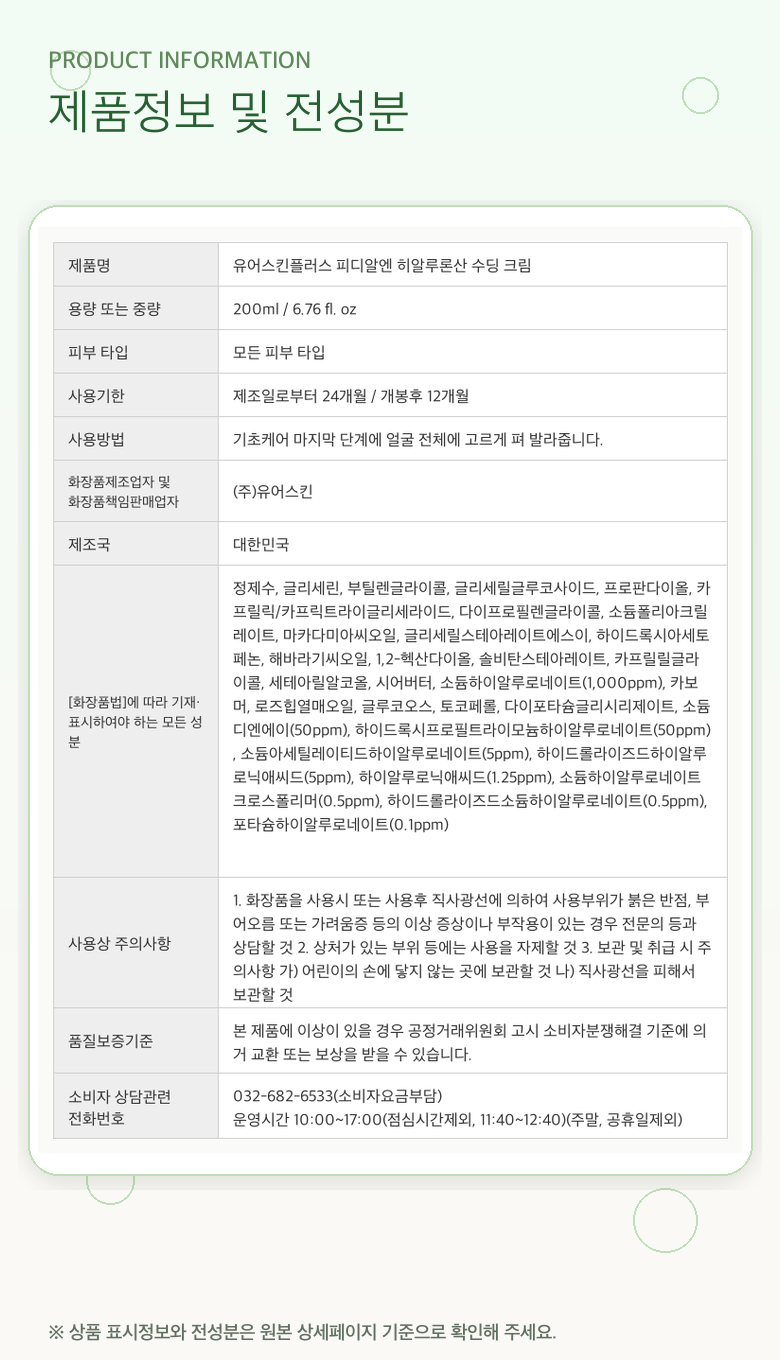
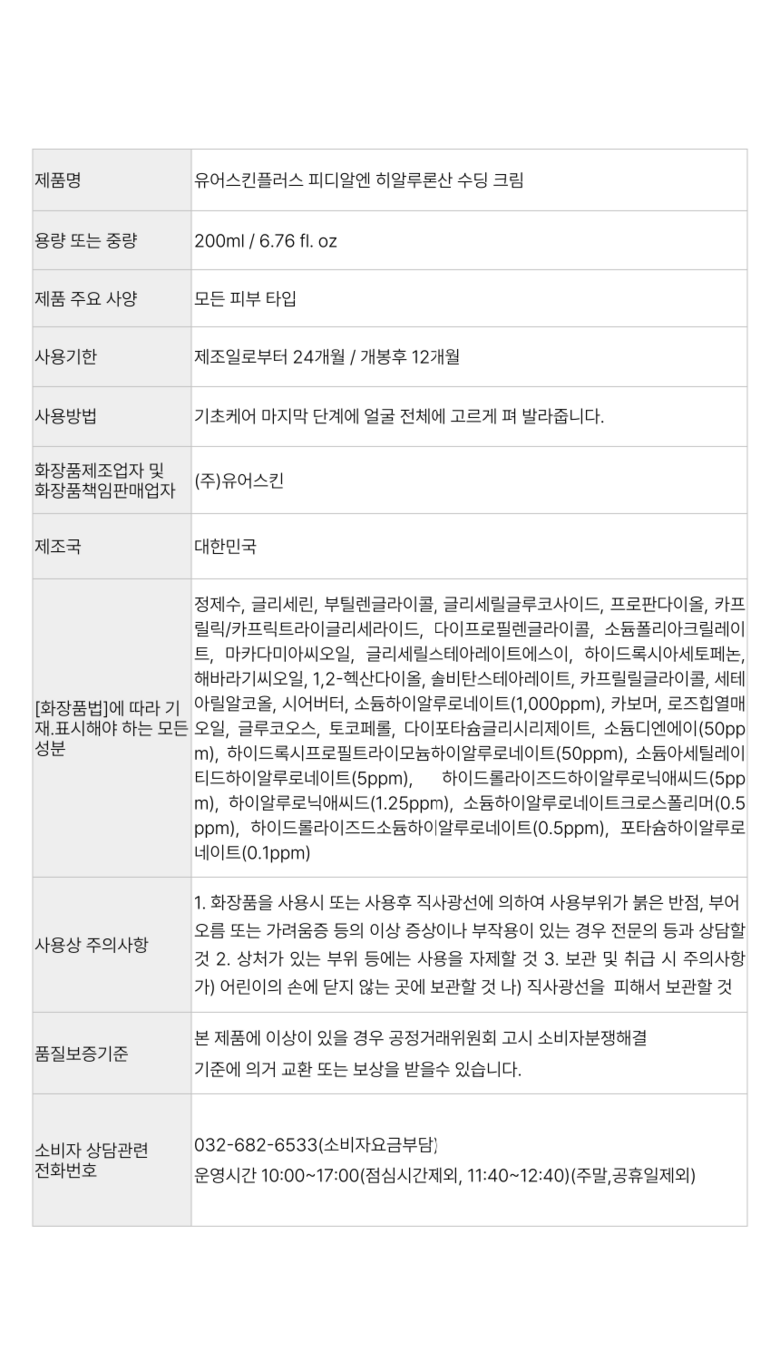
fix: restore soothing cream original table cut

Changed region(s): [[0.0308, 0.0309, 0.9846, 0.8956], [0.0615, 0.9574, 0.7077, 0.9882]]

diff --git a/src/data/marketingOps.ts b/src/data/marketingOps.ts
@@ -536,7 +536,7 @@ export const productVersions: Record<string, ProductVersion[]> = {
       label: 'V1 후보',
       status: 'candidate',
       date: '2026-06-17',
-      summary: 'PDRN 히알루론산 수딩 크림 V1 후보입니다. ChatGPT Images를 통해 대표 01~06과 상세 흐름을 순차 생성/내부 QA 후 반영했고, 상세 01과 02 사이에 성인 여성 사용감 브릿지 컷 01a를 추가했습니다. 최종 검토 후 01a/02~05 해상도를 780×1360으로 정규화했고, 저자극 컷의 강한 표현을 완화했으며, 제품정보·전성분 표는 내용 유지 상태로 V1 톤을 보강해 맨뒤 표시 순서로 배치했습니다. 쿠팡에는 아직 미반영입니다.',
+      summary: 'PDRN 히알루론산 수딩 크림 V1 후보입니다. ChatGPT Images를 통해 대표 01~06과 상세 흐름을 순차 생성/내부 QA 후 반영했고, 상세 01과 02 사이에 성인 여성 사용감 브릿지 컷 01a를 추가했습니다. 최종 검토 후 01a/02~05 해상도를 780×1360으로 정규화했고, 저자극 컷의 강한 표현을 완화했으며, 제품정보·전성분 표는 기존 원본 표만 있는 이미지로 맨뒤 표시 순서에 배치했습니다. 쿠팡에는 아직 미반영입니다.',
       mainImages: Array.from({ length: 6 }, (_, i) => '/coupang/images/soothing-cream/versions/v1/representative/' + String(i + 1).padStart(2, '0') + '.png'),
       detailImages: [
         '/coupang/images/soothing-cream/versions/v1/detail/01.png',
@@ -551,7 +551,7 @@ export const productVersions: Record<string, ProductVersion[]> = {
       ],
       metrics: [
         { label: '대표', value: '6컷 GPT Images 순차 생성' },
-        { label: '상세', value: '01a 포함 16컷 · 780×1360 정규화 · 저자극 문구 완화 · 법정표 V1 톤 보강' },
+        { label: '상세', value: '01a 포함 16컷 · 780×1360 정규화 · 저자극 문구 완화 · 법정표 원본 표 보존' },
         { label: '상태', value: '쿠팡 미반영 후보' },
       ],
     },
